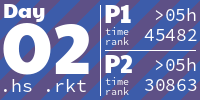
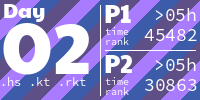
kotlin for fun

diff --git a/day3/day3.kt b/day3/day3.kt
@@ -1,0 +1,28 @@
+package org.example
+
+import java.io.File
+
+fun main() {
+
+    val input = File("input").readText()
+
+    // Part 1
+    val THEMAP = (0..1000).map {x ->
+        (0..1000).map { y -> Pair("($x,$y)", x * y)}
+    }.flatten().toMap()
+
+    val THEFUNCTION = { inp : String -> THEMAP.map { (k, v) ->
+        inp.split("mul").count { i -> i.startsWith(k) } * v }.sum() }
+    println( THEFUNCTION(input) )
+
+    // Part 2
+    val THEINPUT = "do()" + input
+
+    println(THEINPUT.split("don't()").map {
+            str -> str.split("do()").drop(1).map {
+                THEFUNCTION(it)
+        }
+    }.flatten().sum())
+
+
+}

diff --git a/day2/day2.kt b/day2/day2.kt
@@ -1,0 +1,20 @@
+package org.example
+
+import java.io.File
+import kotlin.math.abs
+
+fun main() {
+
+    val input = File("input").readLines().map{ x -> x.split(" ").map(String::toInt)}
+
+    val check = { x:List<Int> ->
+            (x == x.sorted() || x == x.sortedDescending())
+            && x.zipWithNext{ a, b -> abs(a - b) in 1..3 }.all {it}}
+
+    // Part 1
+    println (input.count(check))
+
+    // Part 2
+    println (input.count{ ls -> ls.indices.map { check( ls.subList(0, it) + ls.subList(it + 1, ls.size))}.any {it} })
+
+}

diff --git a/day1/day1.kt b/day1/day1.kt
@@ -1,0 +1,18 @@
+package org.example
+
+import java.io.File
+import kotlin.math.abs
+
+fun main() {
+    val input = File("input").readLines().map { it.split("   ").map { c -> c.toInt() } }
+    val list1 = input.map { it -> it[0] }.sorted()
+    val list2 = input.map { it -> it[1] }.sorted()
+
+    // Part 1
+    println(list1.zip(list2).map{ it -> abs (it.first - it.second) }.sum())
+
+    // Part 2
+    val set1 = list1.toSet()
+    println(list2.map { if(set1.contains(it)) {it} else {0} }.sum())
+
+}

diff --git a/README.md b/README.md
@@ -1,7 +1,7 @@
 # aoc-2024
 <!-- AOC TILES BEGIN -->
 <h1 align="center">
-  2024 - 6 ⭐ - Haskell/Racket
+  2024 - 6 ⭐ - Kotlin/Haskell/Racket
 </h1>
 <a href="day1/day1.hs">
   <img src=".aoc_tiles/tiles/2024/01.png" width="161px">
